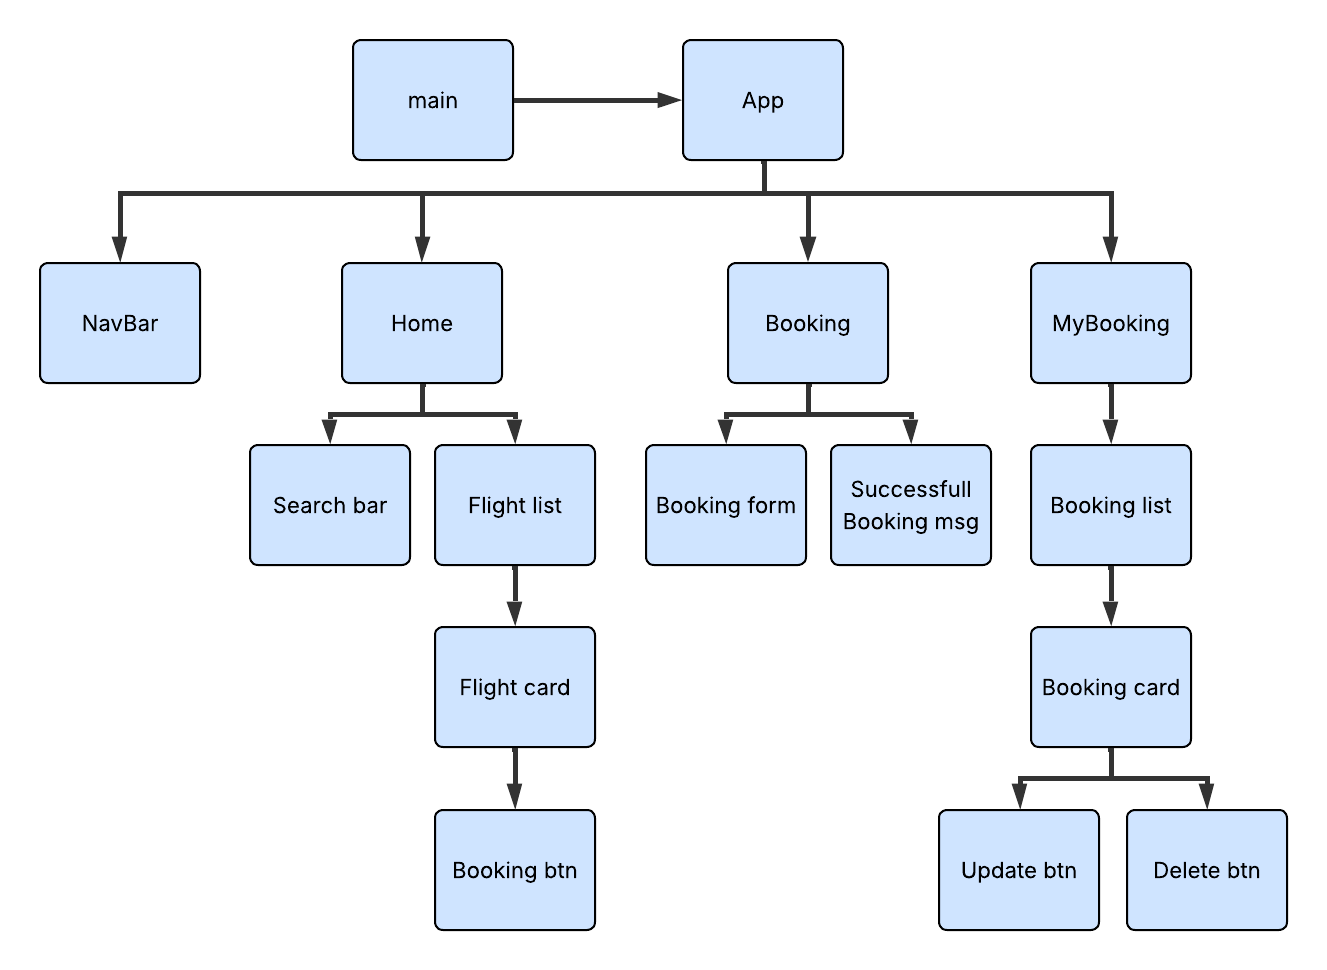
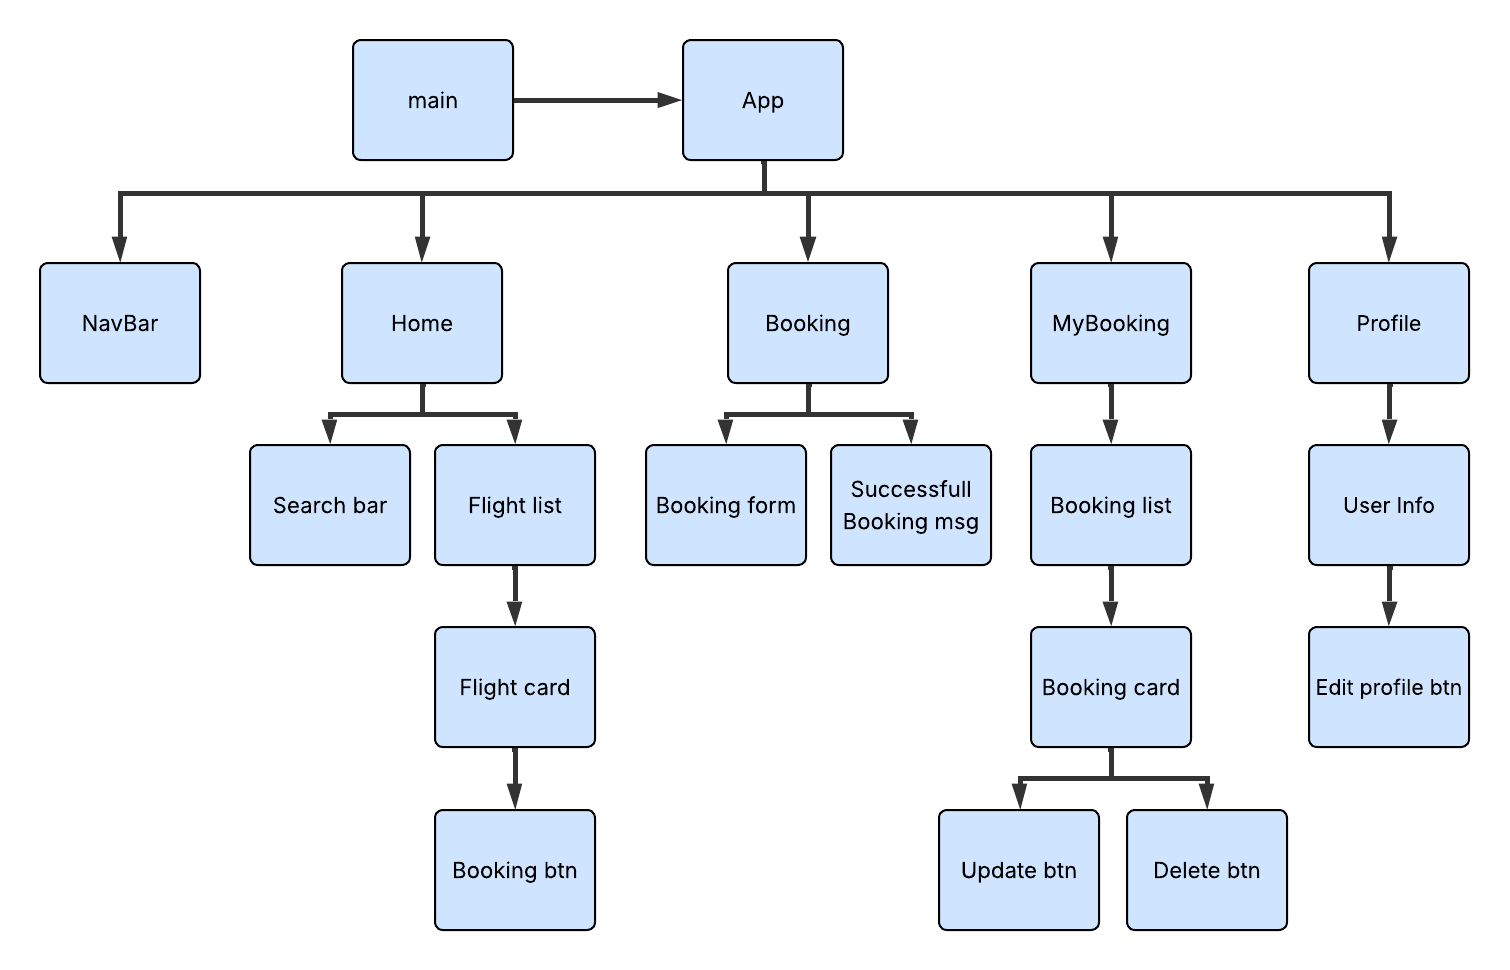
Update hierarchy diagram

diff --git a/README.md b/README.md
@@ -1,60 +1,54 @@
-# SkyLine-backend
-# 🛬 SkyLine - Flight Booking Platform
+# healthcare-donation-platform
 
-## Date: 15/04/2026
+## Date: 26/02/2026
 
-### By: Maryam Altammam - Zainab Aljad - Fatema BuSharar
+### By: Zainab Aljad - Fatema BuSharar
 
-#### [Website](#)
-#### [Maryam's GitHub](https://github.com/imryms) | [Zainab's GitHub](https://github.com/Zaljad) | [Fatema's GitHub](https://github.com/FatemaBuSharar) |
-#### [Maryam's LinkedIn](https://www.linkedin.com/in/maryam-altammam/) | [Zainabs's LinkedIn](https://www.linkedin.com/in/zainabaljad/) | [Fatema's LinkedIn](https://www.linkedin.com/in/fatemabusharar/) |
+#### [Website](#) | [Zainab's GitHub](https://github.com/Zaljad) | [Fatema's GitHub](https://github.com/FatemaBuSharar) | [Zainabs's LinkedIn](https://www.linkedin.com/in/zainabaljad/) | [Fatema's LinkedIn](https://www.linkedin.com/in/fatemabusharar/)
 ***
 
 ### ***Description***
-#### SkyLine is a Full-stack flight booking platform. It allows users to search for flights, manage their reservations, and update booking details seamlessly using the MERN stack.
+#### A web platform for donating medical equipment. Users can submit items with condition details. Admins review submissions, and approved items are displayed for those in need.
 ***
 
 ### ***Technologies Used***
-* Frontend: React.js & Axios.
-* Backend: Node.js & Express.
-* Database: MongoDB & Mongoose.
-* Styling: CSS
+* Node.js
+* Express.js
+* MongoDB
+* EJS
+* JavaScript
+* JSON
 ***
-### 🔗 Project Links
 
-- **Frontend Repository:** [[ Frontend Repo ](https://github.com/imryms/SkyLine)]
-***
-### ***Hierarchy Diagram***
-![Hierarchy Diagram](/Images/SkyLine%20Hierarchy%20Diagram.png)
-***
-### ***ERD***
+### ***RED***
 
 
-![ERD](#)
-***
-### ***Wireframe***
-
-![ERD](#)
+![RED](/images/RED.jpeg)
 ***
 
 ### ***Getting Started***
 
-##### Search, Book, and Manage your flights with ease ✈️.
-
-##### The project was deployed and can be viewed [here](#).
+##### Create a new account or log in to start exploring the different sections of the website.
+##### A Trello board was used to keep track of development progress and can be viewed [here](URL).
+##### The project was deployed and can be viewed [here](URL).
 ***
 
 ### ***Screenshots***
 
-##### Home page
+##### image header 1
 ![image](#)
 
-##### Booking page
+##### image header 2
 ![image](#)
-
-##### MyBooking page
-![image](#)
-
 ***
 
+### ***Future Updates***
+
+- [ ] Add a rental system for medical equipment
+- [ ] Map Integration
+***
+
+### ***Credits***
+
+##### - [Lucidchart](https://lucid.app/) - Used for creating the Hierarchy Diagram.[Lucidchart]
 